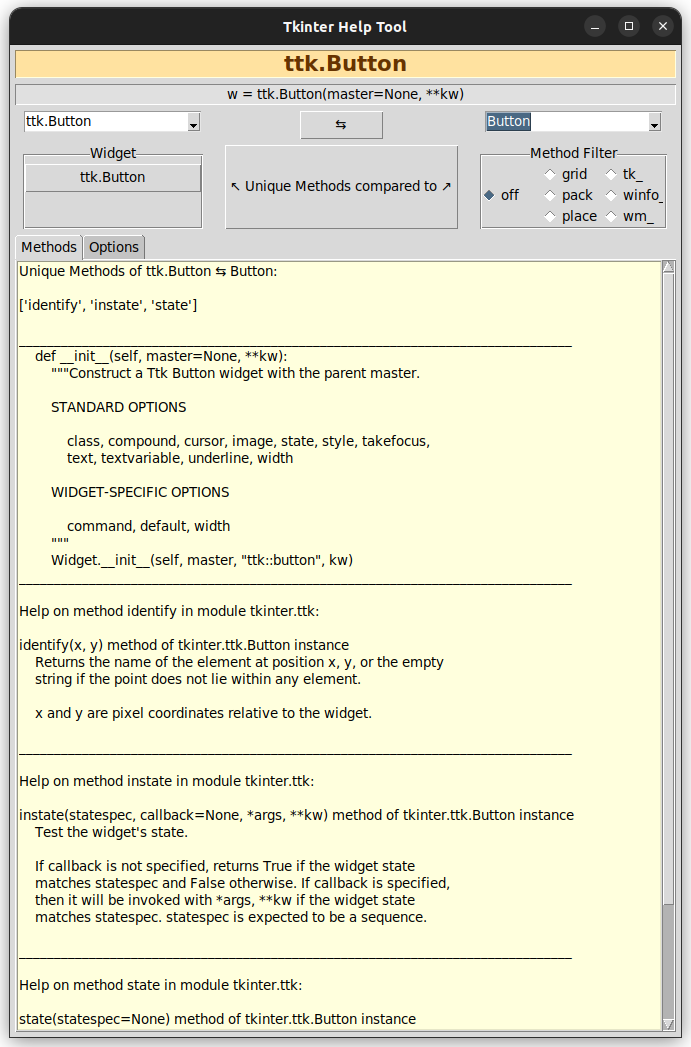
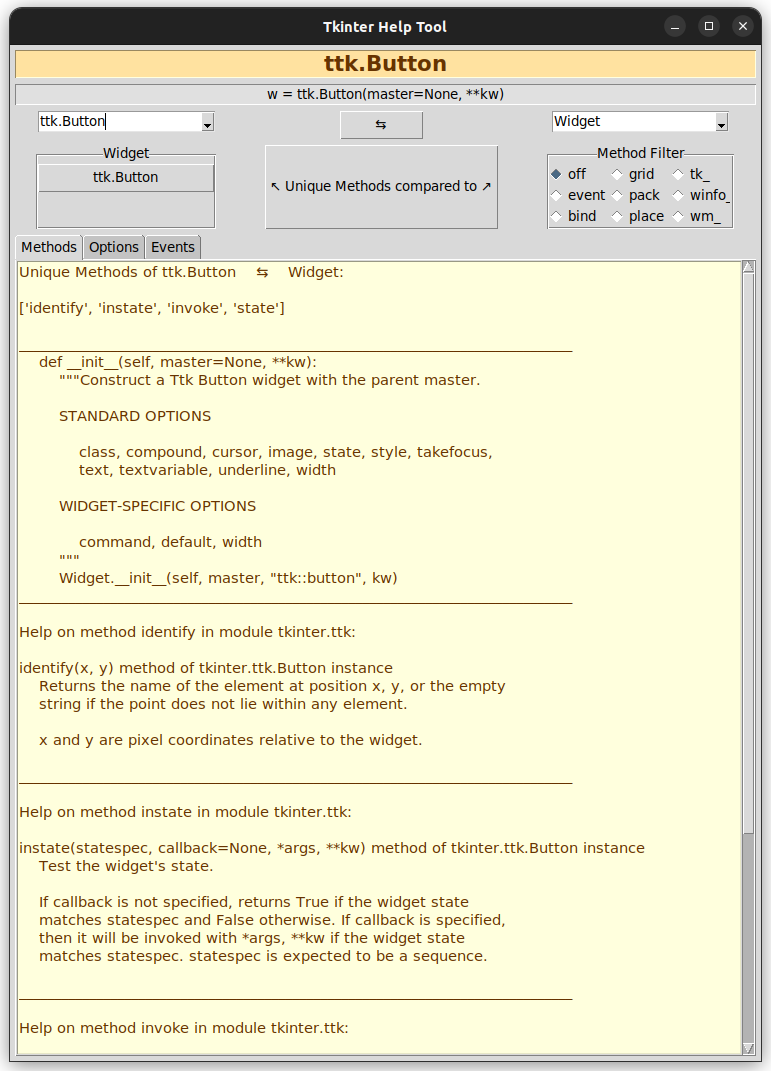
20230507-1800 tkinter_help_tool v0.0.2
Events added

Changed region(s): [[0.0, 0.0, 1.0, 1.0], [0.9117, 0.0, 0.9725, 0.0306]]

diff --git a/tkinter_help_tool.py b/tkinter_help_tool.py
@@ -63,6 +63,7 @@ class Application(Frame):
 		self.rb_winfo = None
 		self.notebook = None
 		self.methods_frm = None
+		self.methods_text = None
 		self.options_frm = None
 		self.options_text = None
 		self.events_frm = None
@@ -70,7 +71,6 @@ class Application(Frame):
 		self.mouse_field = None
 		self.entry_field = None
 		self.events_text = None
-		self.methods_text = None
 		self.definition_var = StringVar()
 		self.option_menu_var = StringVar()
 		self.option_menu_choices = []
@@ -117,7 +117,8 @@ class Application(Frame):
 		                        ('object',))
 		self.cbox2['values'] = self.cbox1['values']
 		self.option_menu_choices = self.cbox1['values']
-		self.entry_field_var.set('Enter text here to evaluate keyboard events:')
+		self.entry_field_var.set(
+			'Keyboard Input here:')
 
 	def toggle(self):
 		temp1 = self.cbox1_var.get()
@@ -125,11 +126,6 @@ class Application(Frame):
 		self.cbox2_var.set(temp1)
 		self.cbox1_var.set(temp2)
 		self.showButton.invoke()
-
-	def evaluate_event(self, event):
-		self.events_text.configure(state=NORMAL)
-		self.events_text.insert(0.1, f"{event}\n")
-		self.events_text.configure(state=DISABLED)
 
 	def createWidgets(self):
 
@@ -213,14 +209,22 @@ class Application(Frame):
 		self.mouse_field = ttk.Label(self.sensor_lf, anchor='n',
 		                             relief='ridge',
 		                             background='grey', foreground='white',
-		                             text='\n\nmove mouse here & push '
-		                                  'a button\n\n')
+		                             text='\nmove mouse here '
+		                                  '\nand push a button\n',
+		                             width=30)
 		self.entry_field = ttk.Entry(self.sensor_lf,
 		                             textvariable=self.entry_field_var)
 		self.events_text = ScrolledText(self.events_frm, bg='#ffffdd',
 		                                fg='#663300',
 		                                wrap='word',
 		                                font=font.Font(size=11), height=60)
+		old_stdout = sys.stdout
+		sys.stdout = my_stdout = io.StringIO()
+		self.events_text.configure(state=NORMAL)
+		print(help(Event))
+		self.events_text.insert(0.1, f"\n{my_stdout.getvalue()}\n")
+		self.events_text.configure(state=DISABLED)
+		sys.stdout = old_stdout
 
 		# Layout
 		self.grid(sticky='nesw')
@@ -245,11 +249,10 @@ class Application(Frame):
 		self.notebook.grid(column=0, row=10, columnspan=3, sticky='nesw')
 		self.methods_text.grid(sticky='nesw')
 		self.options_text.grid(sticky='nesw')
-		self.sensor_lf.propagate(0)
-		self.sensor_lf.grid(sticky='nesw')
-		self.mouse_field.grid(sticky='nesw')
-		self.entry_field.grid(sticky='ew')
-		self.events_text.grid(sticky='nesw')
+		self.sensor_lf.pack(side='top', expand=FALSE)
+		self.mouse_field.pack(side='top', fill='both', expand=FALSE)
+		self.entry_field.pack(side='top', fill='both', expand=FALSE)
+		self.events_text.pack(side='top', fill='both', expand=TRUE)
 
 		for w in self.winfo_children():
 			w.grid_configure(padx=3, pady=3)
@@ -266,13 +269,7 @@ class Application(Frame):
 		self.options_frm.columnconfigure('all', weight=1)
 		self.options_frm.rowconfigure('all', weight=1)
 		self.events_frm.columnconfigure('all', weight=1)
-		self.events_frm.rowconfigure('all', weight=0)
-		self.sensor_lf.columnconfigure('all', weight=1)
-		self.sensor_lf.rowconfigure('all', weight=1)
-		self.entry_field.columnconfigure('all', weight=1)
-		self.entry_field.rowconfigure('all', weight=1)
-		self.mouse_field.columnconfigure('all', weight=1)
-		self.mouse_field.rowconfigure('all', weight=1)
+		self.events_frm.rowconfigure('all', weight=1)
 
 		# Bindings
 		self.cbox1.bind("<<ComboboxSelected>>",
@@ -281,18 +278,19 @@ class Application(Frame):
 		                lambda e: self.showButton.invoke())
 
 		for event_type in ['<KeyPress>', '<KeyRelease>']:
-			self.entry_field.bind(event_type, self.evaluate_event)
+			self.entry_field.bind(event_type, self.log_event)
 
 		for event_type in ['<ButtonPress>', '<ButtonRelease>', '<MouseWheel>',
 		                   '<Motion>', '<Enter>', '<Leave>']:
-			self.mouse_field.bind(event_type, self.evaluate_event)
+			self.mouse_field.bind(event_type, self.log_event)
 
 		for event_type in ['<Visibility>',
 		                   '<Unmap>', '<Map>', '<Expose>', '<FocusIn>',
 		                   '<FocusOut>', '<Circulate>', '<Colormap>',
 		                   '<Gravity>', '<Reparent>', '<Property>',
 		                   '<Destroy>', '<Activate>', '<Deactivate>']:
-			self.bind(event_type, self.evaluate_event)
+			self.bind(event_type, self.log_event)
+
 
 	def get_widget1(self):
 
@@ -453,6 +451,13 @@ class Application(Frame):
 
 		self.options_text.configure(state=DISABLED)
 		sys.stdout = old_stdout
+
+	def log_event(self, event):
+		self.events_text.configure(state=NORMAL)
+		self.events_text.insert(0.1, f"{event}\n")
+		# for attr in event.__dict__.items():
+		# 	self.events_text.insert(0.1, f"{attr}\n")
+		self.events_text.configure(state=DISABLED)
 
 
 app = Application()
